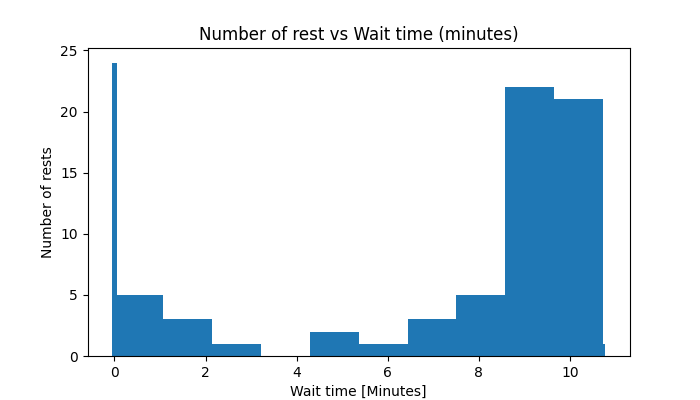
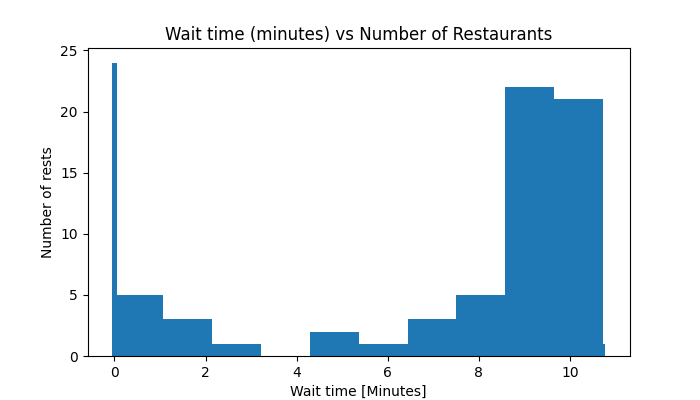
fixed n egative clients in system

Changed region(s): [[0.24, 0.06, 0.78, 0.12]]

diff --git a/callcenter/Graphs.py b/callcenter/Graphs.py
@@ -42,9 +42,9 @@ class Graphs:
     @staticmethod
     def plot_rest_wait_histogram(wait_histogram):
         fig, ax = plt.subplots(figsize=(7, 4))
-        ax.set_title('Number of rest vs Wait time (minutes)')
+        ax.set_title('Wait time (minutes) vs Number of Restaurants')
         ax.set_xlabel('Wait time [Minutes]')
-        ax.set_ylabel('Number of rests')
+        ax.set_ylabel('Number of Restaurants')
         ax.set_yticks(ticks=np.arange(0, 50, 5))
         ax.hist(wait_histogram, bins=10)
         plt.bar(wait_histogram.keys(), wait_histogram.values(),  width=0.1)
